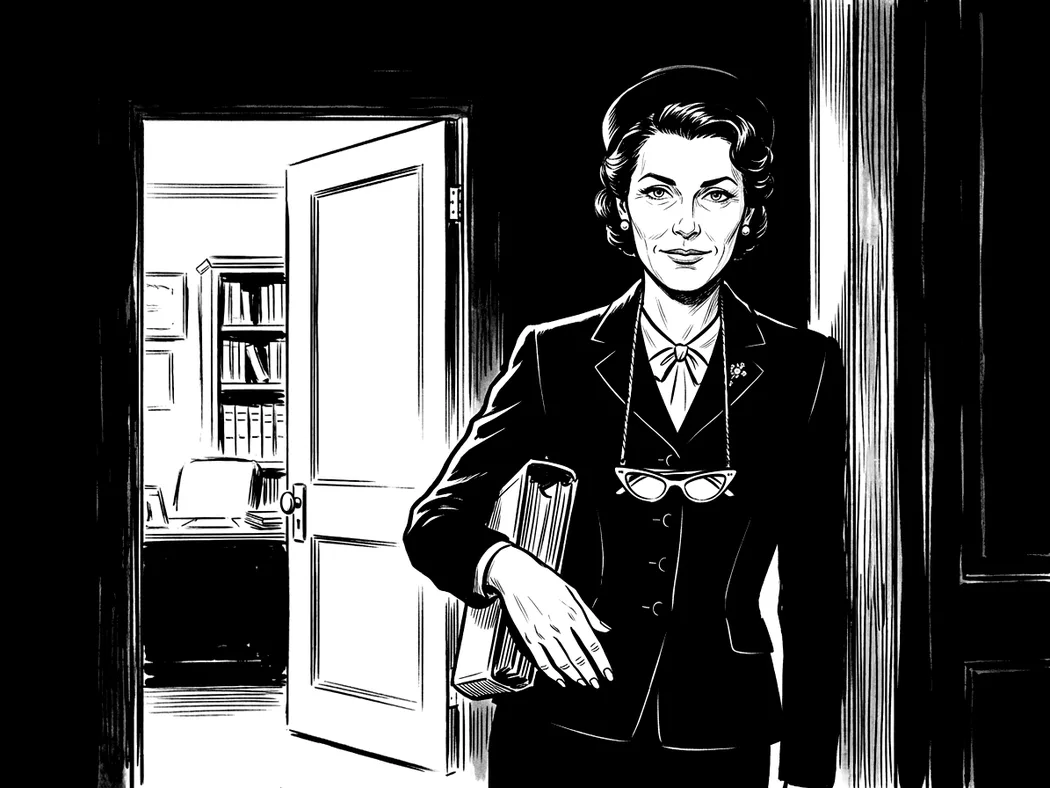
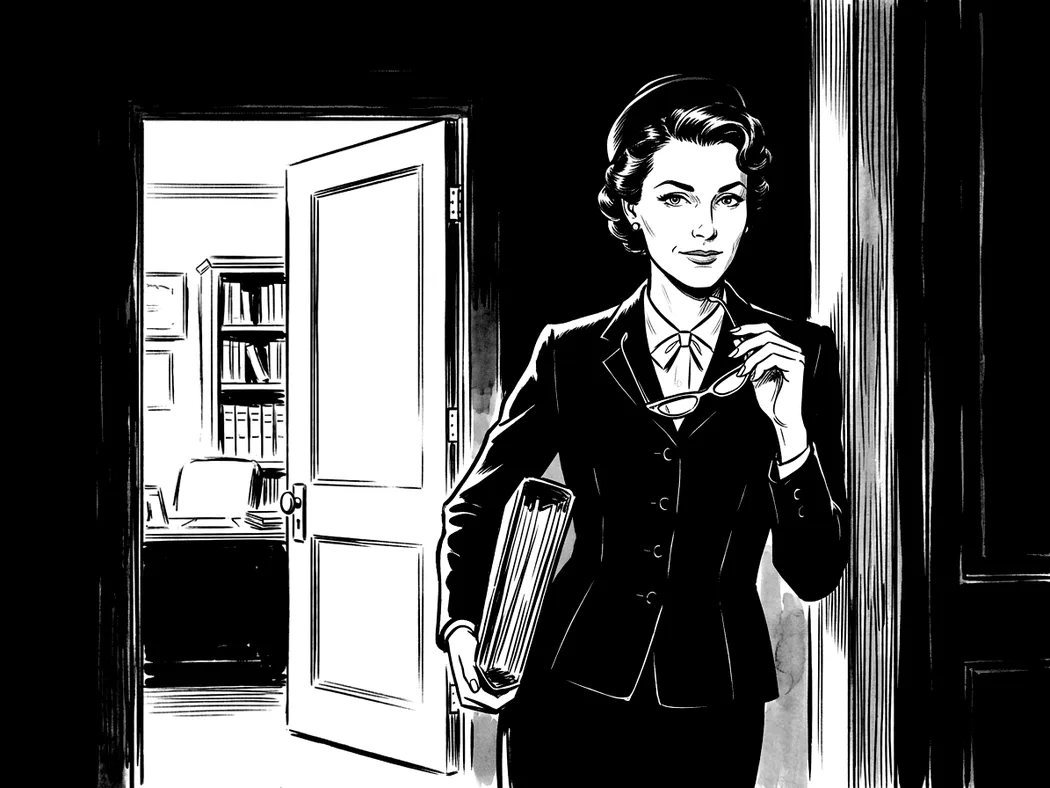
Advokaten (kvinna) omgjord med den nya prompten (Jonas 2026-11-14)
Egen gest med glasögonen i handen och kvinnlig kropp, med advokaten (man)
som referens. Ny alt-text.

Claude-Session: https://claude.ai/code/session_01X82C4AptUEE9LHKngPSzUq

diff --git a/src/scenes/sceneImages.js b/src/scenes/sceneImages.js
@@ -90,7 +90,7 @@ export const SCENE_IMAGES = /** @type {const} */ ({
   roleBodyguardWoman: { src: roleBodyguardWoman, alt: 'En lång livvakt i bältad rock och liten hatt står med armarna i kors vid en upplyst port en natt och ser prövande på oss.', position: '90% 30%' },
   roleBodyguardMan: { src: roleBodyguardMan, alt: 'En stor livvakt med mustasch, i rock och fedora, står med armarna i kors vid en upplyst port en natt och ser rakt på oss.', position: '90% 30%' },
   roleDoctorMan: { src: roleDoctorMan, alt: 'En läkare med glasögon och mustasch, i mörk kappa med stetoskop och läkarväska, står i en upplyst dörröppning.', position: '100% 30%' },
-  roleLawyerWoman: { src: roleLawyerWoman, alt: 'En advokat i knäppt dräkt, blus med rosett och liten hatt lutar sig i dörren till sin upplysta byrå med en tjock akt under armen och glasögonen i en kedja runt halsen.', position: '100% 30%' },
+  roleLawyerWoman: { src: roleLawyerWoman, alt: 'En advokat i knäppt dräkt, blus med rosett och liten hatt står i dörren till sin upplysta byrå med en tjock akt mot sidan och glasögonen i handen.', position: '100% 30%' },
   roleLawyerMan: { src: roleLawyerMan, alt: 'En advokat i kritstrecksrandig kostym med väst och lossad slips lutar sig i dörren till sin upplysta byrå med en tjock akt under armen och ler lite slugt.', position: '100% 30%' },
   roleCitizenWoman: { src: roleCitizenWoman, alt: 'En kvinna i blommig klänning står i sin öppna ytterdörr och ser ut i mörkret med handen mot dörrkarmen.', position: '75% 30%' },
   roleCitizenMan: { src: roleCitizenMan, alt: 'En man i keps och kofta tittar misstänksamt ut genom sin ytterdörr.', position: '100% 30%' },

diff --git a/docs/bildsmak.md b/docs/bildsmak.md
@@ -250,6 +250,9 @@ en regel.
   manliga. Det är ett återkommande problem ... Det mänskliga ögat är väldigt
   känsligt för detta, har jag märkt, man ser direkt att något är fel." Med egen
   gest och kvinnliga händer: "det ser bra ut".
+- 2026-11-14, `roll-advokat-kvinna` omgjord med den nya prompten och
+  `roll-advokat-man` som referens, med egen gest (glasögonen i handen):
+  "Mycket bra!"
 
 ## Bilder att byta
 
